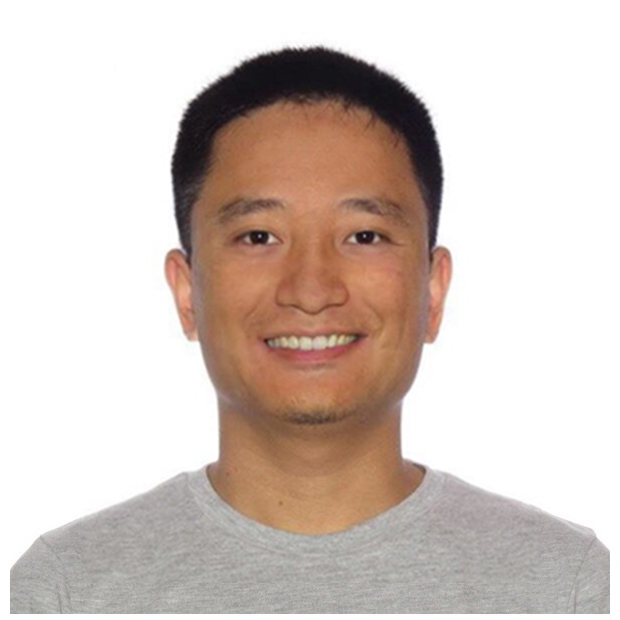
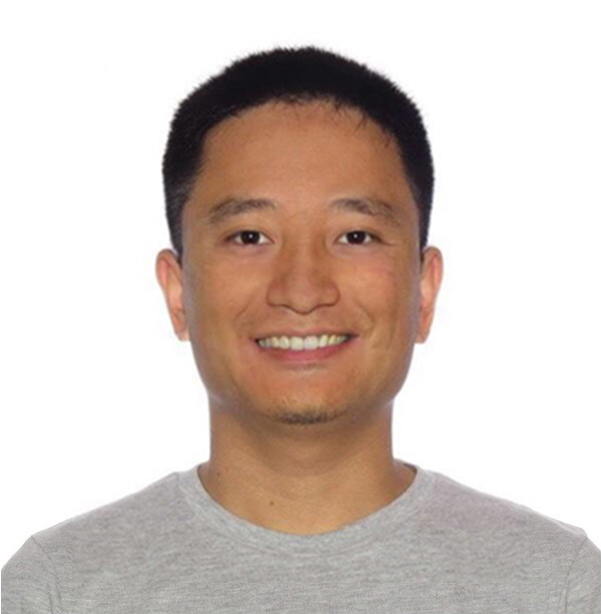
style update

diff --git a/index.html b/index.html
@@ -10,69 +10,59 @@
 <!-- TemplateEndEditable -->
 <style type="text/css">
     <!--
-.STYLE1 {
-	font-family: "Courier New", Courier, monospace;
-	font-size: 16pt;
-        width: 994px;
-    }
-.STYLE2 {	font-family: "Courier New", Courier, monospace;
-         	font-size: 14pt;
-         	}
-.STYLE3 {color: #333333}
-    .style2
-    {
-        width: 257px;
-    }
+	.STYLE1{
+			font-family: "HelveticaNeue-Light", "Helvetica Neue Light", "Helvetica Neue", Helvetica, Arial, "Lucida Grande", sans-serif; 
+			font-size: 13pt;
+			width: 994px;
+	}
+	.STYLE2 {	font-family: "HelveticaNeue-Light", "Helvetica Neue Light", "Helvetica Neue", Helvetica, Arial, "Lucida Grande", sans-serif; 
+				font-size: 10pt;
+	}
+	.STYLE3 {	font-family: "HelveticaNeue-Light", "Helvetica Neue Light", "Helvetica Neue", Helvetica, Arial, "Lucida Grande", sans-serif; 
+				font-size: 11pt;
+	}
     .style4
     {
-        width: 24px;
+        width: 19px;
     }
     .style5
     {
-        height: 113px;
-        width: 24px;
-    }
-    .style12
-    {
-        font-family: "Courier New", Courier, monospace;
-    }
-    .style13
-    {
-        font-size: 13pt;
+        height: 90px;
+        width: 19px;
     }
     .style22
     {
-        height: 73px;
+        height: 58px;
     }
     .style23
     {
-        height: 312px;
+        height: 250px;
     }
     .style25
     {
-        height: 73px;
-        width: 182px;
+        height: 58px;
+        width: 146px;
     }
     .style29
     {
-        font-family: "Courier New", Courier, monospace;
-        font-size: 14pt;
-        width: 1002px;
+        font-family: "HelveticaNeue-Light", "Helvetica Neue Light", "Helvetica Neue", Helvetica, Arial, "Lucida Grande", sans-serif; 
+        font-size: 10pt;
+        width: 800px;
         text-align: left;
         margin-left: 0px;
     }
+	.style30
+    {
+        font-size: 9pt;
+    }
     .style32
     {
-        font-size: 28pt;
-    }
-    .style24
-    {
-        font-size: medium;
+        font-size: 20pt;
     }
     .style33
     {
-        height: 113px;
-        width: 257px;
+        height: 90px;
+        width: 205px;
     }
 	.center {
 
@@ -81,63 +71,40 @@
 </style>
 </head>
 <body  bgcolor="#FFFFFF"   >
-        
-<!--
-    <p style="width: 1358px; height: 86px;  margin: 0px">
-            <span class="style12">&nbsp;</span><strong>&nbsp;<span class="style12"><font font-size: 20pt><span 
-                class="style13">News:</span>
-            </font>
-            </span>
-            </strong><font font-size: 18pt>
-			
-			
-			<br class="style15" />
-			
-            <span class="style12"><span class="style13">&nbsp;&nbsp; 2015/8/8&nbsp; One paper is conditionally accepted to SIGGRAPH 
-            ASIA 2015: &quot;Generalized Cylinder Decomposition&quot;.</span>
-			
-			<br class="style13" />
-				
-            <span class="style13">&nbsp;&nbsp; 2015/8/22 </span>
-            <span class="style13">I moved to SFU for my PhD training. Bye Shenzhen... ~~~~(&gt;_&lt;)~~~~</span></span></font><strong
-                    
-            <p class="STYLE2" ><strong><br />
-			-->
-			 
+        		 
 <!--
 
-            &nbsp;<img src="bar.jpg" 
-            style="height: 5px; width: 1310px; padding-bottom: 0px; margin-left: 0px; margin-bottom: 1px;" 
-            align="center"  />
-			-->
+	&nbsp;<img src="bar.jpg" 
+	style="height: 5px; width: 1310px; padding-bottom: 0px; margin-left: 0px; margin-bottom: 1px;" 
+	align="center"  />
+-->
 			</strong></strong></p>
-        <table width="1280" border="0" cellpadding="0" cellspacing="0" style="float:middle; margin-left:10px; width: 1280px">
+        <table width="1024" border="0" cellpadding="0" cellspacing="0" style="float:middle; margin-left:10px; width: 1024px">
   <!--DWLayoutTable-->
   <tr>  
     <td class="style5" colspan="1" align="center"></td>
     <td class="style33" colspan="1" align="center" >
-        <img src="kangxue.jpg"  style="height: 300px; width: 300px; padding-bottom: 0px; margin-left: 0px;"  align="center"  />
+        <img src="kangxue-narrow.jpg"  style="height: 220px; width: 182px; padding-bottom: 0px; margin-right: 16px;"  align="center"  />
 	</td>
 	
     <td colspan="4" valign="top" class="STYLE1">
-
-
-		<br />
-		<span lang="EN-US" class="style32"> <strong> Kangxue Yin</strong></span><span lang="EN-US" class="style24"> </span> 
+		<span lang="EN-US" class="style32">
+		<br /> 
+		<strong> Kangxue Yin</strong></span>
+		<span lang="EN-US" class="style32"> </span> 
 		<audio id="player"> <source src="pronounce.mp3" type='audio/mpeg'  preload="auto" ></audio>
-		<input type="image"  src="images/pron.png" onclick="document.getElementById('player').play()"  style="height: 22px; width: 23px" />
+		<input type="image"  src="images/pron.png" onclick="document.getElementById('player').play()"  style="height: 20px; width: 20px" />
 
 		<!--
 		<img src="name.png"  style="height: 30px; width: 71px; padding-bottom: 0px; margin-left: 0px;"  align="center" />
 		-->
 	
         <p class="style29">
-			<a href="CV-KangxueYin.pdf" style="text-decoration: none">CV</a>
-			<br><br>
 			
 			<strong> Ph.D. Student </strong>
 			<br>
-			<a href="http://gruvi.cs.sfu.ca/" style="text-decoration: none">GrUVi lab</a>, <a href="http://www.cs.sfu.ca/"  style="text-decoration: none">School of Computing Science</a>, <a href="http://www.sfu.ca/" style="text-decoration: none">Simon Fraser University</a>
+			<br>
+			<a href="http://gruvi.cs.sfu.ca/" style="text-decoration: none">GrUVi lab</a>, <a href="http://www.cs.sfu.ca/"  style="text-decoration: none">school of Computing Science</a>, <a href="http://www.sfu.ca/" style="text-decoration: none">Simon Fraser University</a>
 			<br><br>
 			
 			Advisor: <a href="https://www.cs.sfu.ca/~haoz/" style="text-decoration: none">Prof. Hao(Richard) Zhang</a><br>
@@ -145,53 +112,52 @@
 			<a href="http://vcc.szu.edu.cn/~huihuang/"  style="text-decoration: none">Prof. Hui Huang</a>, 
 			<a href="http://www.cs.tau.ac.il/~dcor/" style="text-decoration: none">Prof. Daniel Cohen-Or</a>
 			<br><br>			
+					
+			kangxuey at sfu.ca<br><br>
 			
-			kangxuey at sfu.ca
+			<a href="https://github.com/kangxue" style="text-decoration: none">GitHub</a><a href="https://github.com/kangxue" style="text-decoration: none"> 
+			·  
+			<a href="CV-KangxueYin.pdf" style="text-decoration: none">Curriculum Vitae</a>
 			<br><br>
 			
-			<a href="https://github.com/kangxue" style="text-decoration: none">https://github.com/kangxue</a><a href="https://github.com/kangxue" style="text-decoration: none">
+			
 		</p>
 
       </a></td> 
   </tr>
-  
-  
-  
+    
   <tr>
   
-    <td width="72" height="399" rowspan="10" class="style4">&nbsp;&nbsp;</td>
-    <td colspan="5" valign="top" class="style23">
+    <td rowspan="15" class="style4">&nbsp;&nbsp;</td>
+    <td style="height: 80px;" colspan="5" valign="top" class="style23">
+	<!--
          <img src="bar.jpg" 
             style="height: 5px; width: 1300px; padding-bottom: 0px; margin-left: 2px;" 
             align="center" 
            /><br />
         <br />
+	-->
         
-<!--
-	<p class="STYLE2"><strong> Research Interests</strong></strong></p>
-		<p class="STYLE2"><i>Data capture, augmentation and generation for Computer Graphics</i>. E.g., 3D shapes, point scans, human poses, etc.
-		More generally, I am interested in various hard problems in computer graphics and computer vision.
-			 </p>
--->
-	<p class="STYLE2"><strong> <br />Education and Employment</strong></p>
+	<!--
+		<p class="STYLE2"><strong> <br />Education and Employment</strong></p>
         <p class="STYLE2">Sep. 2015 - Now,  Ph.D. Student in Computer Science, Simon Fraser University, Burnaby, B.C., Canada</p>
-	<p class="STYLE2">Jul. 2012 - Aug. 2015, Research Assistant, Shenzhen Institutes of Advanced Technology, Chinese Academy of Sciences, Shenzhen, China</p>
+		<p class="STYLE2">Jul. 2012 - Aug. 2015, Research Assistant, Shenzhen Institutes of Advanced Technology, Chinese Academy of Sciences, Shenzhen, China</p>
         <p class="STYLE2">Sep. 2008 - Jun. 2012, Bachelor in Software Engineering, Chang'an University, Xi'an,&nbsp;China</p>
 		 <br />
+	-->
 		
-      <p class="STYLE2"><strong> Publications</strong></p>
-	  <font class="style22"> <font color="FireBrick"><strong>[T]</strong></font> denotes that it will become part of my PhD thesis.</font> <br /><br /><br />
+      <p class="STYLE3"><strong> Publications</strong></p>
+	  <font class="style30"> <font color="FireBrick"><strong>[T]</strong></font> denotes that it will be part of my PhD thesis.</font> <br /><br /><br />
 	  
     </td>
-	
   </tr>
 
       <tr>
-    <td valign="middle" class="style25"><span class="STYLE2">
+    <td valign="middle" >
 	<a href="images/logan.jpg">
-	<img src="images/logan.jpg" width="290" height="198" /></a></span></td>
+	<img src="images/logan.jpg" width="156" height="126" /></a></span></td>
     <td colspan="4" valign="middle" class="style22"><span class="STYLE2"><strong>LOGAN: Unpaired Shape Transform in Latent Overcomplete Space.<font color="FireBrick">[T]</font></strong><br />
- Kangxue Yin, Zhiqin Chen, Hui Huang, Daniel Cohen-Or, Hao Zhang. <br />
+ <u>Kangxue Yin</u>, Zhiqin Chen, Hui Huang, Daniel Cohen-Or, Hao Zhang. <br />
  <a href="https://arxiv.org/pdf/1903.10170.pdf">arXiv:1903.10170</a>, 2019.  [<a href="papers/logan_supp.pdf">Supp.</a>] [<a href="papers/LOGAN.pptx">Slides</a>] <br />
  [data and code will be released]
 </span></td>
@@ -199,11 +165,11 @@
   
   
         <tr>
-    <td valign="middle" class="style25"><span class="STYLE2">
+    <td valign="middle"  >
 	<a href="images/imseg.png">
-	<img src="images/imseg.png" width="290" height="152" /></a></span></td>
+	<img src="images/imseg.png" width="156" height="98" /></a></span></td>
     <td colspan="4" valign="middle" class="style22"><span class="STYLE2"><strong>BAE-NET: Branched Autoencoder for Shape Co-Segmentation. </strong><br />
- Zhiqin Chen, Kangxue Yin, Siddhartha Chaudhuri, Matthew Fisher, Hao Zhang. <br />
+ Zhiqin Chen,  <u>Kangxue Yin</u>, Siddhartha Chaudhuri, Matthew Fisher, Hao Zhang. <br />
  <a href="https://arxiv.org/pdf/1903.11228.pdf">arXiv:1903.11228</a>, 2019. [<a href="papers/imseg_supp.pdf">Supp.</a>]<br />
 [data and code will be released]
 </span></td>
@@ -213,11 +179,11 @@
   
   
   <tr>
-    <td valign="middle" class="style25"><span class="STYLE2">
+    <td valign="middle" >
 	<a href="images/p2p_intp3.jpg">
-	<img src="images/p2p_intp3.jpg" width="290" height="150" /></a></span></td>
+	<img src="images/p2p_intp3.jpg" width="156" height="98" /></a></span></td>
     <td colspan="4" valign="middle" class="style22"><span class="STYLE2"><strong>P2P-NET: Bidirectional Point Displacement Net for Shape Transform.<font color="FireBrick">[T]</font> </strong><br />
-Kangxue Yin, Hui Huang, Daniel Cohen-Or, Hao Zhang. <br />
+ <u>Kangxue Yin</u>, Hui Huang, Daniel Cohen-Or, Hao Zhang. <br />
 ACM Transactions on Graphics 37(4)(Special Issue of SIGGRAPH 2018 )<br />
 [<a href="https://arxiv.org/pdf/1803.09263.pdf">paper</a>][<a href="https://www.dropbox.com/s/xwqyhl7uwnnagdb/P2P-NET.pptx?dl=1">slides</a>][<a href="https://www.dropbox.com/s/5gz7mtdwg590nb3/P2P-NET-FF.mp4?dl=0">fast-forward</a>][<a href="https://www.dropbox.com/s/fz3khhwx6cxdnb5/data_hdf5.zip?dl=1">data(hdf5)</a>][<a href="https://www.dropbox.com/s/ezmmu9k66rdxoiu/data_raw.zip?dl=1">data(raw)</a>][<a href="https://github.com/kangxue/P2P-NET">code</a>]
 </span></td>
@@ -225,52 +191,52 @@ ACM Transactions on Graphics 37(4)(Special Issue of SIGGRAPH 2018 )<br />
   
 
     <tr>
-    <td valign="middle" class="style25"><span class="STYLE2">
+    <td valign="middle" >
 	<a href="images/2pose.jpg">
-	<img src="images/2pose.jpg" width="290" height="220" /></a></span></td>
+	<img src="images/2pose.jpg" width="156" height="141" /></a></span></td>
     <td colspan="4" valign="middle" class="style22"><span class="STYLE2"><strong>A Sampling Approach to Generating Closely Interacting 3D Pose-pairs from 2D Annotations. </strong><br />
- Kangxue Yin, Hui Huang, Edmond S. L. Ho, Hao Wang, Taku Komura, Daniel Cohen-Or, and Hao Zhang. <br />
+  <u>Kangxue Yin</u>, Hui Huang, Edmond S. L. Ho, Hao Wang, Taku Komura, Daniel Cohen-Or, and Hao Zhang. <br />
 IEEE Transactions on Visualization and Computer Graphics(TVCG), 2018.<br />
 [<a href="papers/pairint.pdf">paper</a>][<a href="papers/Occluded-Joint-Inference.mp4">video</a>][<a href="https://www.dropbox.com/s/nvxwi84da9vej6d/pairint_annotation.zip?dl=1">data</a>][<a href="papers/exe-demo.zip">exe-demo</a>]</span></td>
   </tr>
   
   <tr>
-    <td valign="middle" class="style25">
+    <td valign="middle" >
 	<a href="images/plantCut.jpg">
-	<span class="STYLE2"><img src="images/plantCut.jpg" width="290" height="190" /></a></span></td>
+	<span class="STYLE2"><img src="images/plantCut.jpg" width="156" height="122" /></a></span></td>
     <td colspan="4" valign="middle" class="style22"><span class="STYLE2"><strong>Full 3D Plant Reconstruction via Intrusive Acquisition. </strong><br />
-Kangxue Yin, Hui Huang, Pinxin Long, Alex Gaissinski, Minglun Gong and Andrei Sharf. <br />
+ <u>Kangxue Yin</u>, Hui Huang, Pinxin Long, Alex Gaissinski, Minglun Gong and Andrei Sharf. <br />
 Computer Graphics Forum 35(1), 2016. <br />
 [<a href="papers/plantCut.pdf">paper</a>][<a href="http://vcc.szu.edu.cn/research/2016/PlantCut">page</a>][<a href="https://www.dropbox.com/s/7thufllrutsdt26/plantScan.zip?dl=1">data</a>]</span></td>
   </tr>
   <tr>
-    <td valign="middle" class="style25"><span class="STYLE2">
+    <td valign="middle" >
 	<a href="images/gcd.jpg">
-	<img src="images/gcd.jpg" width="290" height="190" /></a></span></td>
+	<img src="images/gcd.jpg" width="156" height="122" /></a></span></td>
     <td colspan="4" valign="middle" class="style22"><p class="STYLE2"><strong>Generalized Cylinder Decomposition</strong>.<br />
-      Yang Zhou, Kangxue Yin, Hui Huang, Hao Zhang, Minglun Gong and Daniel Cohen-Or.<br />
+      Yang Zhou,  <u>Kangxue Yin</u>, Hui Huang, Hao Zhang, Minglun Gong and Daniel Cohen-Or.<br />
       ACM Transactions on 
       Graphics 34(6)(Special Issue of SIGGRAPH ASIA 2015 ).<br />
     [<a href="papers/gcd.pdf">paper</a>][<a href="https://www.youtube.com/watch?v=eqvJeJ0ujMM">video</a>][<a href="http://vcc.szu.edu.cn/research/2015/GCD">code + data + page</a>]</p></td>
   </tr> 
 
   <tr>
-    <td valign="middle" class="style25">
+    <td valign="middle" >
 	<a href="images/morfit.jpg">
-	<img src="images/morfit.jpg" alt="" width="290" height="198" /></a></td>
+	<img src="images/morfit.jpg" alt="" width="156" height="123" /></a></td>
     <td colspan="4" valign="middle" class="style22"><span class="STYLE2"><strong>Morfit: Interactive Surface Reconstruction from Incomplete Point Clouds with Curve-Driven Topology and Geometry Control</strong>. <br />
-Kangxue Yin, Hui Huang, Hao Zhang, Minglun Gong, Daniel Cohen-or and Baoquan Chen.<br />
+ <u>Kangxue Yin</u>, Hui Huang, Hao Zhang, Minglun Gong, Daniel Cohen-or and Baoquan Chen.<br />
 ACM Transactions on 
    Graphics 33(6)(Special Issue of SIGGRAPH ASIA 2014 ).<br />
 [<a href="papers/morfit.pdf">paper</a>][<a href="http://vcc.szu.edu.cn/research/2014/Morfit">page</a>][<a href="papers\Morfit_video.mp4">video</a>][<a href="https://drive.google.com/open?id=0B1yWc4B_DEqPa2k2VnpQSzlId1k">slides</a>][<a href="http://kangxue.org/Morfit/">code + data</a>]</span></td>
   </tr>
   <tr>
-    <td valign="middle" class="style25">
+    <td valign="middle" >
 	<a href="images/telereg.jpg">
-	<img src="images/telereg.jpg" alt="" width="292" height="177" /></a></td>
+	<img src="images/telereg.jpg" alt="" width="156" height="114" /></a></td>
     <td colspan="4" valign="middle" class="style22"><span class="STYLE2"><strong>&quot;Mind the Gap&quot;: Tele-Registration for 
         Structure-Driven Image Completion</strong>. <br />
-Hui Huang, Kangxue Yin, Minglun Gong, Dani Lischinski, Daniel Cohen-Or, Uri 
+Hui Huang,  <u>Kangxue Yin</u>, Minglun Gong, Dani Lischinski, Daniel Cohen-Or, Uri 
       Ascher and Baoquan Chen.<br />
       ACM Transactions on Graphics 32(6)(Special Issue of SIGGRAPH ASIA 2013 ).<br />
 [<a href="papers/tele-reg.pdf">paper</a>][<a href="https://drive.google.com/open?id=0B1yWc4B_DEqPcFROclJHOVZENjA">slides</a>][<a href="http://kangxue.org/Tele-Registration/">core code + data</a>]</span></td>
